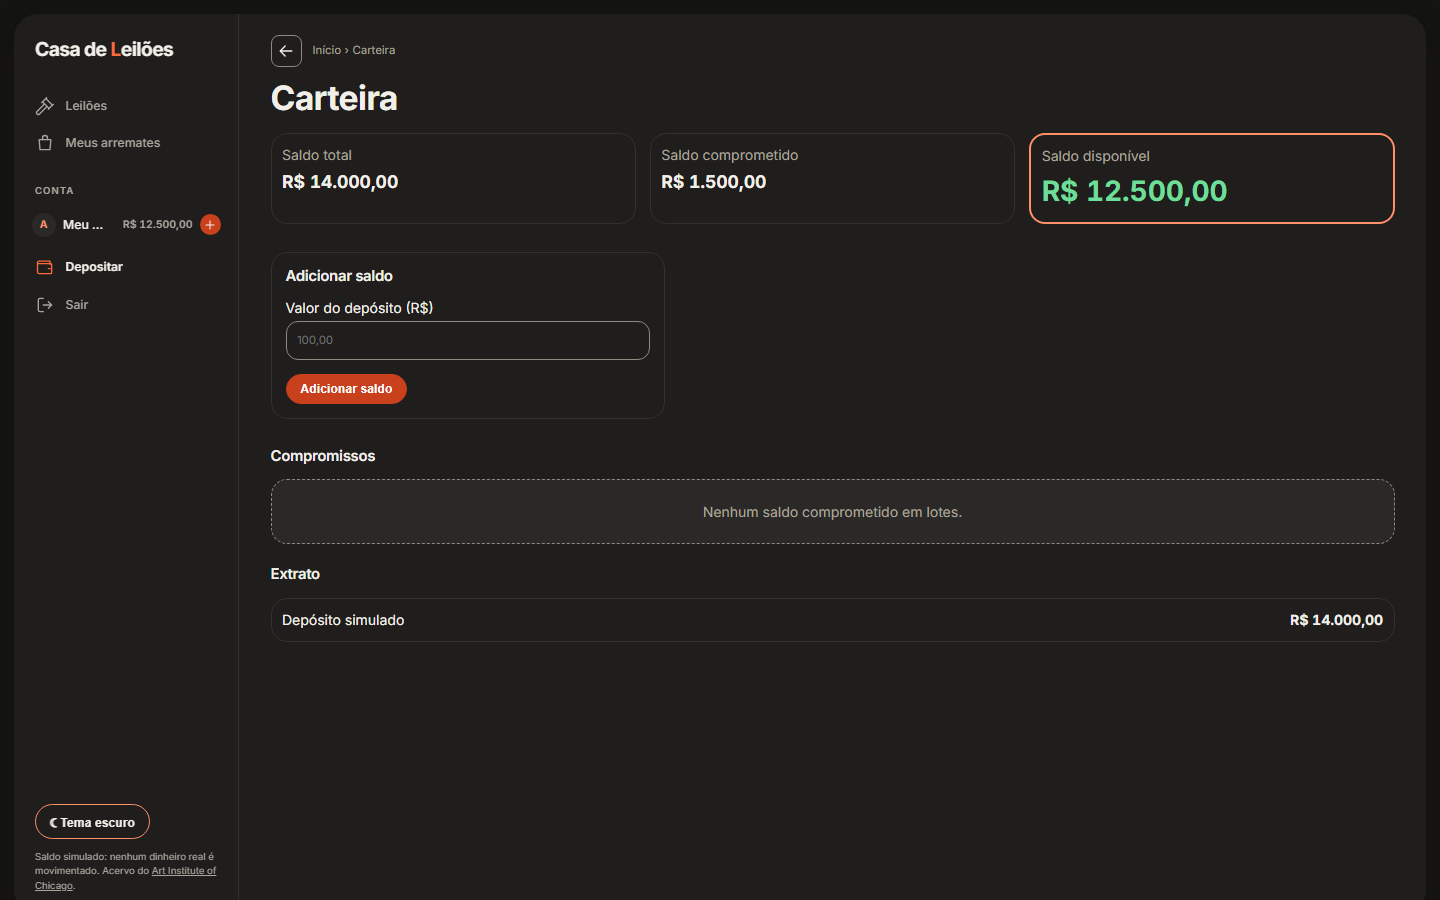
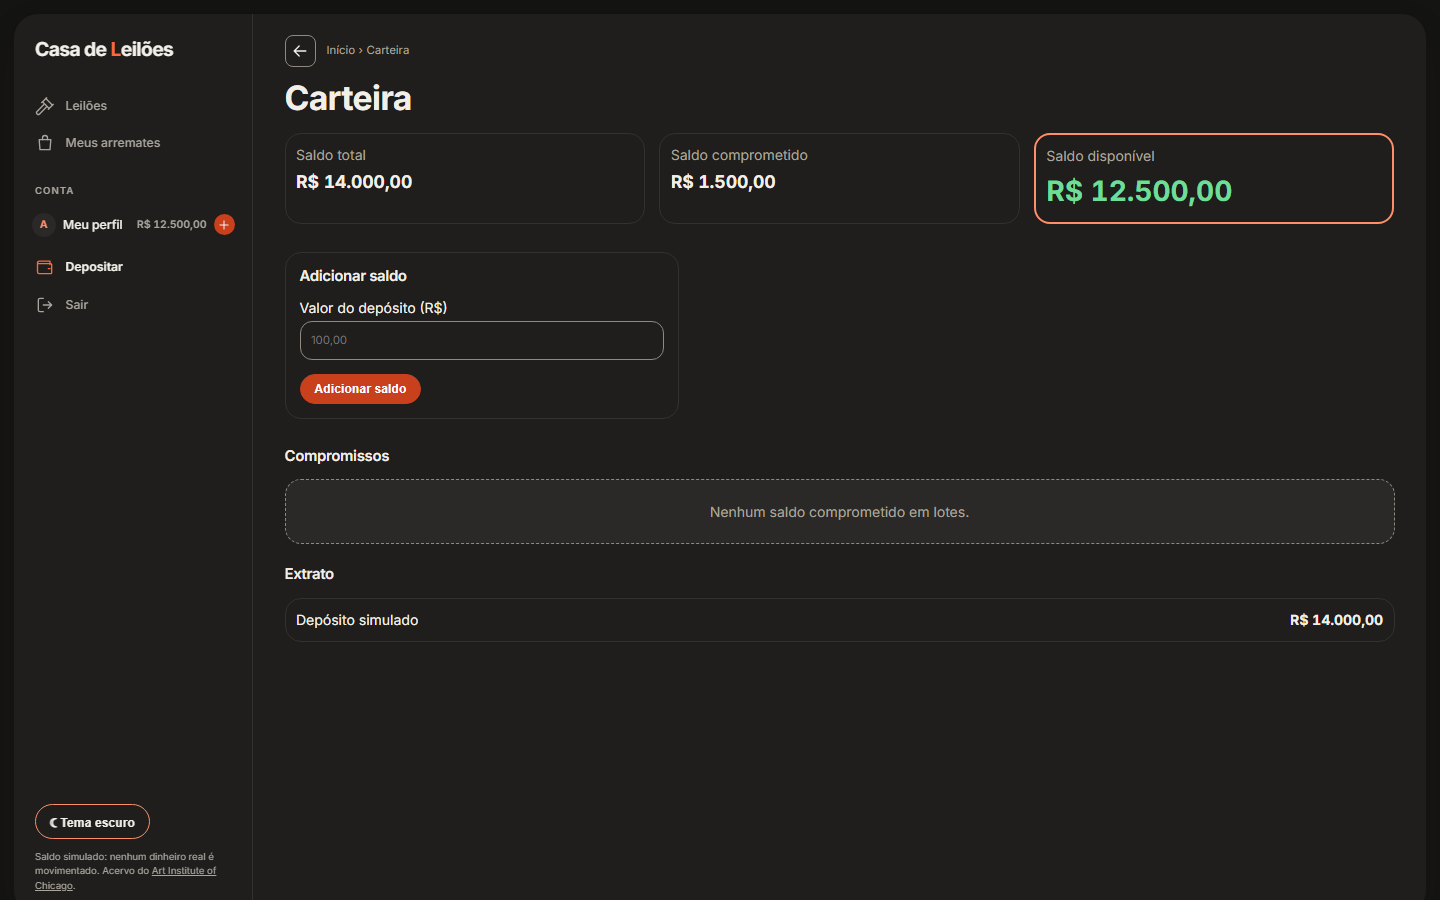
style(web): ajuste o perfil da barra lateral e documente o redesign

diff --git a/apps/web/src/styles.css b/apps/web/src/styles.css
@@ -2245,3 +2245,22 @@ button,
 .profile-balance {
   margin-left: var(--space-2);
 }
+
+.app-shell {
+  grid-template-columns: 17rem minmax(0, 1fr);
+}
+.profile-name {
+  flex: 0 0 auto;
+  overflow: visible;
+  text-overflow: clip;
+}
+.profile-balance {
+  flex: 1 1 auto;
+  min-width: 0;
+  text-align: right;
+}
+@media (max-width: 64rem) {
+  .app-shell {
+    grid-template-columns: none;
+  }
+}

diff --git a/docs/design/clickbids.md b/docs/design/clickbids.md
@@ -1,50 +1,62 @@
 # Redesenho no estilo ClickBids
 
 Referência: Dribbble "ClickBids Auctions". Só `apps/web` mudou; dados, hooks e regras de negócio
-ficaram intactos (nenhuma spec de comportamento ou texto de contrato foi alterada).
+ficaram intactos (nenhuma spec de comportamento ou texto de contrato foi alterada). A versão
+descrita aqui é a final (segunda passada, mais leve e densa que a primeira).
 
-## O que mudou
+## Visão geral
 
-- **Casca (`Layout.tsx`)**: cabeçalho horizontal virou **barra lateral fixa** com o wordmark
-  ("Casa de **L**eilões", letra de destaque laranja), itens com ícones de linha fina (SVG inline em
-  `components/Icon.tsx`, sem dependência nova), seção "CONTA" em caixa-alta cinza, cartão do perfil
-  com o saldo da carteira e botão redondo "+" (aria-label "Depositar saldo", leva à carteira),
-  "Depositar", "Sair", alternador de tema e rodapé cinza pequeno. O conteúdo fica num **painel
-  branco arredondado** sobre fundo bege com textura sutil.
+- **Casca (`Layout.tsx`)**: um único painel branco arredondado (raio 24px, sombra suave) sobre o
+  fundo bege com textura sutil. Dentro dele, barra lateral fixa e conteúdo separados por um
+  divisor fino de 1px.
+- **Barra lateral**: wordmark de 22px ("Casa de **L**eilões", uma letra em laranja-avermelhado),
+  itens de 14px com ícones de linha fina (SVG inline em `components/Icon.tsx`, sem dependência
+  nova). O item ativo não tem fundo: só texto mais escuro e ícone de acento. Seção "CONTA" em
+  caixa-alta cinza; linha de perfil compacta (avatar, "Meu perfil", saldo à direita e "+" redondo
+  de 24px, `aria-label` "Depositar saldo"); Depositar, Sair, alternador de tema e rodapé cinza
+  pequeno.
 - **Rotas mapeadas**: Leilões (`/`), Meus arremates (licitante), Painel e Novo lote (leiloeiro),
-  Carteira/Depositar (`/carteira`), Entrar e Criar conta (visitante). Não há item "Auditoria" na
-  barra: a auditoria é por lote (`/auditoria/:lotId`) e continua acessível a partir do lote.
-- **Topo do conteúdo**: botão quadrado de voltar (fora da home) + trilha "Início › …" por rota.
-- **Vitrine**: título "Leilões **ao vivo**" (acento muda com a aba), subtítulo cinza, relógio em
-  caixas de dígito (`CountdownBoxes.tsx`: zeros à esquerda em cinza, dígitos ativos em laranja,
-  legenda "para encerrar" / "para começar", calculado a partir do próximo lote a encerrar/começar
-  e com o mesmo `useRemainingMs`), chip de progresso "8 / 24 lotes encerrados" com barra de acento
-  (usa `counts` da API). A `IntroStrip` continua, reestilizada (cartão suave, passos numerados com
-  marcador de acento). Abas viraram abas sublinhadas.
-- **Cards de lote**: grade de 4 colunas (3, 2 e 1 em telas menores), card branco com raio grande,
-  imagem centrada em fundo claro, chip de fase (AO VIVO em acento, AGENDADO contornado,
-  ENCERRADO escuro), ícone de participantes + contagem de lances, título em negrito (acento no
-  hover), rodapé com "Lance inicial R$ x" em texto pequeno de acento, contagem em negrito e o
-  lance atual numa pílula que preenche com o acento no hover/foco.
-- **Mobile (<= 64rem)**: a barra lateral vira **gaveta** aberta por um botão (aria-expanded,
-  aria-controls, fecha com Esc, ao navegar ou tocando no fundo); barra superior com o wordmark.
-  Conferido sem rolagem horizontal em 360 px.
-- **Tokens (`styles.css`)**: fundo `#f4efe6`, texto `#1d1d1f`, `--brand #e5532d` (só fundos
-  decorativos e texto grande, 3,75:1 sobre branco), `--accent #be3a17` (texto pequeno, 5,5:1) e
-  `--accent-bg #c8401c` (preenchimentos com texto branco, 5,0:1). O tema escuro redefine os mesmos
-  tokens (`--brand #ff6a3d`, `--accent #ff8f69`). Foco visível (outline de 3px), alvos >= 44px e
-  `prefers-reduced-motion` mantidos. Foi adicionado um link "Pular para o conteúdo".
+  Carteira/Depositar (`/carteira`), Entrar e Criar conta (visitante). Não há item "Auditoria": ela
+  é por lote (`/auditoria/:lotId`) e continua acessível a partir do lote.
+- **Topo do conteúdo**: botão quadrado de voltar (36px, contorno; fora da home) e trilha
+  "Início › …" por rota, com o último item em cinza.
+- **Vitrine**: título "Leilões **ao vivo**" (o acento muda com a aba), subtítulo "Total em lances:
+  R$ x" (soma dos preços atuais dos lotes carregados), chip de progresso branco "8 / 24 lotes
+  encerrados" com o número em acento e barra fina de acento na borda inferior, e relógio
+  (`CountdownBoxes.tsx`): caixas brancas com borda e sombra leves, dígitos de 18px (zeros à
+  esquerda em cinza, dígitos ativos em texto de acento), dois-pontos entre os grupos e legenda
+  "para encerrar" / "para começar" centralizada. O alvo é o próximo lote a encerrar/começar e usa
+  o mesmo `useRemainingMs`. A `IntroStrip` virou faixa fina com borda e continua dispensável;
+  filtros em uma linha compacta (campos de 36px); abas de 14px com sublinhado de acento.
+- **Cards de lote**: grade de 4 colunas (3, 2 e 1 em telas menores), sem borda, raio 12px, sombra
+  só no hover. Imagem em fundo `#f7f6f4` com `object-fit: contain`; fase como chip minúsculo
+  (ponto + texto) no canto superior direito; abaixo, ícone de participantes + "N lances" e o
+  título (acento no hover; o título é o link do card, com área de clique cobrindo o card todo).
+  Rodapé após um fio: "Lance inicial R$ x" em acento sobre o horário/contagem em negrito, e o
+  lance atual numa pílula bege com texto marrom que vira acento com texto branco no hover/foco.
+- **Mobile (<= 64rem)**: a barra lateral vira gaveta aberta por um botão (`aria-expanded`,
+  `aria-controls`, fecha com Esc, ao navegar ou tocando no fundo); barra superior com o wordmark;
+  o painel ocupa a tela inteira. Sem rolagem horizontal em 360 px.
+- **Tipografia**: Inter (Google Fonts em `index.html`, com fallback de sistema), base de 14px, h1
+  peso 700, títulos de card 15px peso 600, rótulos de 11–12px, `letter-spacing` -0.02em nos
+  títulos.
+- **Tokens (`styles.css`)**: fundo `#f4efe6`, texto `#1d1d1f`, `--brand #e5532d` (fundos
+  decorativos e texto grande), `--accent #be3a17` (texto pequeno, 5,5:1) e `--accent-bg #c8401c`
+  (preenchimentos com texto branco, 5,0:1). O tema escuro redefine os mesmos tokens (`--brand
+  #ff6a3d`, `--accent #ff8f69`). Foco visível, alvos de toque confortáveis, `prefers-reduced-motion`
+  respeitado e link "Pular para o conteúdo".
 
 ## Acessibilidade e testes
 
 - Papéis e rótulos usados pelos testes foram mantidos (`nav` "Principal", botão "Sair", botão
   "Tema escuro" com `aria-pressed`, `time` das contagens, `.lot-card`, `.lot-status`).
-- axe (WCAG 2 A/AA) com a API simulada, sem violações em vitrine, carteira e entrar, nos perfis
-  licitante, leiloeiro e visitante, nos dois temas, em 1440 px e 360 px.
+- axe (WCAG 2 A/AA) com a API simulada: sem violações em vitrine, carteira e entrar, nos dois
+  temas, em 1440 px e 360 px.
 
 ## Capturas
 
-`docs/design/clickbids-antes-*.png` (antes) e `clickbids-depois-*.png` (depois), para vitrine e
-carteira, desktop 1440 px e 360 px, claro e escuro, mais `clickbids-depois-menu-360-light.png`
-(gaveta aberta). Geradas por `node docs/design/screenshots.mjs antes|depois` contra o Vite, com a
-API simulada por interceptação de rotas (sem banco).
+`docs/design/clickbids-antes-*.png` (versão anterior ao redesenho) e `clickbids-depois-*.png`
+(versão final), para vitrine e carteira, desktop 1440 px e 360 px, claro e escuro, mais
+`clickbids-depois-menu-360-light.png` (gaveta aberta). Geradas por
+`node docs/design/screenshots.mjs antes|depois` contra o Vite, com a API simulada por
+interceptação de rotas (sem banco).
